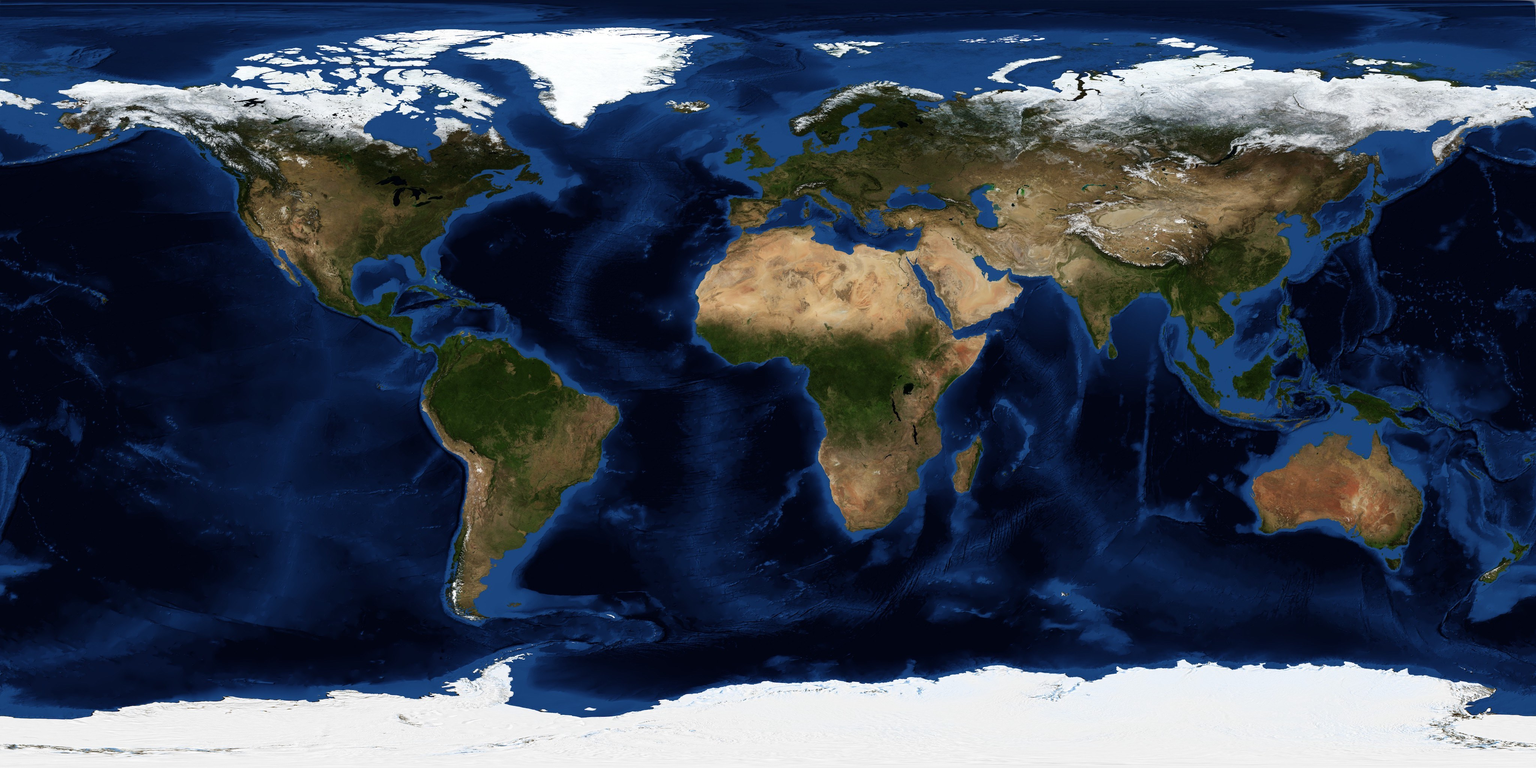
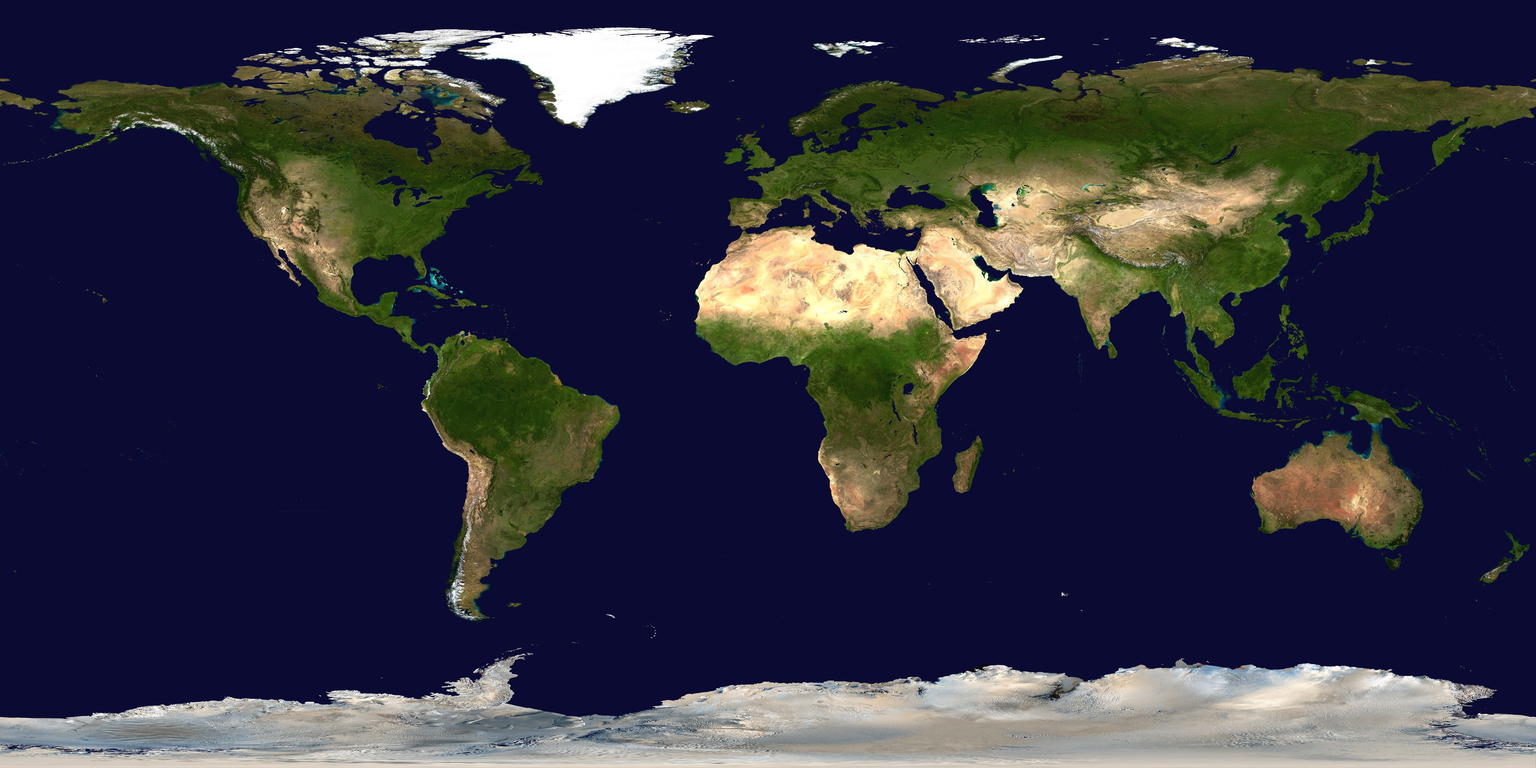
Earth maps from the user's high-resolution textures: colour, land/water (border lines removed), clouds, height and city lights

diff --git a/sw.js b/sw.js
@@ -1,5 +1,5 @@
 // Offline support: everything is fetched from the network first and saved; the saved copy is used when offline.
-const APP = 'umbra-app-v28', DATA = 'umbra-data';
+const APP = 'umbra-app-v29', DATA = 'umbra-data';
 const FILES = ['./', 'index.html', 'css/app.css', 'manifest.webmanifest', 'js/main.js', 'js/catalog.js', 'js/tracker.js', 'js/worker.js', 'js/sgp.js', 'js/frames.js', 'js/light.js', 'js/sight.js', 'js/shapes.js', 'js/purpose.js',
   'js/models3d.js', 'js/groundview.js', 'js/spaceview.js', 'js/orbitview.js', 'js/earth.js', 'js/sky.js', 'js/glsl.js', 'js/astro.js', 'js/post.js', 'js/clock.js', 'js/planets.js', 'js/eclipse.js',
   'vendor/three.module.min.js', 'vendor/satellite.min.js', 'vendor/astronomy.browser.min.js', 'vendor/leaflet/leaflet.js', 'vendor/leaflet/leaflet.css',

diff --git a/tools/earthtex.py b/tools/earthtex.py
@@ -1,0 +1,57 @@
+"""Build the Earth maps from the user's high-resolution textures in D:/Earth Textures (all equirectangular, aligned):
+  earth_color_10K.png       -> data/earth-day-8k.jpg (8192) and data/earth-day.jpg (4096)
+  earth_landocean_16K.png   -> water mask, channel G of data/earth-aux*.jpg (white = water). Hairline features
+                               (borders, small rivers drawn as lines, < ~3 px at 16K) are removed by an opening,
+                               so they don't show as shiny lines across the land
+  Earth-Cloud-Map-16k.png   -> clouds, channel R of data/earth-aux*.jpg
+  Earth-Bump-Map-16k.png    -> data/earth-height.png (4096): 24.9 m per grey level (checked against known summits)
+  Earth-Night-Map-16k.png   -> data/earth-lights-8k.jpg and data/earth-lights.jpg: the orange city light only (the
+                               bluish moonlit land is dropped: the renderer lights the land itself), brightness matched
+                               to the previous maps' calibration (a bright city core ~1.2 cd/m^2) by quantile matching
+The third channel of the aux maps is kept as it is.
+Usage: python tools/earthtex.py
+"""
+from PIL import Image, ImageFilter
+import numpy as np, os
+
+Image.MAX_IMAGE_PIXELS = None
+ROOT = os.path.join(os.path.dirname(__file__), '..')
+SRC = 'D:/Earth Textures'
+D = lambda f: os.path.join(ROOT, 'data', f)
+SIZES = {'-8k': (8192, 4096), '': (4096, 2048)}
+
+print('colour...')
+col = Image.open(os.path.join(SRC, 'earth_color_10K.png')).convert('RGB')
+for suf, size in SIZES.items():
+    col.resize(size, Image.LANCZOS).save(D(f'earth-day{suf}.jpg'), quality=92)
+
+print('water...')
+lo = Image.open(os.path.join(SRC, 'earth_landocean_16K.png')).convert('L')
+lo = lo.filter(ImageFilter.MinFilter(5)).filter(ImageFilter.MaxFilter(5))   # opening: drop lines <= ~4 px wide
+
+print('clouds...')
+cl = Image.open(os.path.join(SRC, 'Earth-Cloud-Map-16k.png')).convert('L')
+
+for suf, size in SIZES.items():
+    p = D(f'earth-aux{suf}.jpg')
+    aux = np.asarray(Image.open(p).convert('RGB').resize(size, Image.BICUBIC)).copy()
+    aux[:, :, 0] = np.asarray(cl.resize(size, Image.BOX))
+    aux[:, :, 1] = np.asarray(lo.resize(size, Image.BOX))
+    Image.fromarray(aux).save(p, quality=92)
+
+print('lights...')
+ref = np.asarray(Image.open(os.path.join(ROOT, '.raw', 'before-earthtex', 'earth-lights-ref.jpg')).convert('L')).astype(np.float32)
+nm = Image.open(os.path.join(SRC, 'Earth-Night-Map-16k.png')).convert('RGB')
+for suf, size in SIZES.items():
+    a = np.asarray(nm.resize(size, Image.BOX)).astype(np.float32)
+    f = np.clip(a[:, :, 0] - 0.9 * a[:, :, 2], 0, None)
+    small = np.asarray(Image.fromarray(f, 'F').resize(ref.shape[::-1], Image.BOX))
+    qs = np.linspace(0, 100, 1001)
+    sq = np.maximum.accumulate(np.percentile(small, qs) + np.arange(len(qs)) * 1e-6)
+    out = np.interp(f, sq, np.percentile(ref, qs))
+    Image.fromarray(np.clip(out, 0, 255).astype(np.uint8), 'L').save(D(f'earth-lights{suf}.jpg'), quality=92)
+
+print('height...')
+Image.open(os.path.join(SRC, 'Earth-Bump-Map-16k.png')).convert('L').resize((4096, 2048), Image.BOX).save(D('earth-height.png'), optimize=True)
+for f in ['earth-day-8k.jpg', 'earth-day.jpg', 'earth-aux-8k.jpg', 'earth-aux.jpg', 'earth-lights-8k.jpg', 'earth-lights.jpg', 'earth-height.png']:
+    print(f, os.path.getsize(D(f)) // 1024, 'KB')
